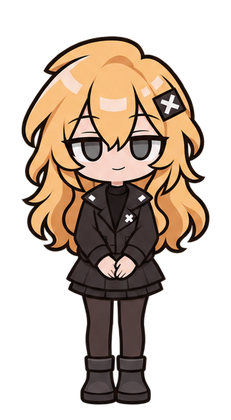
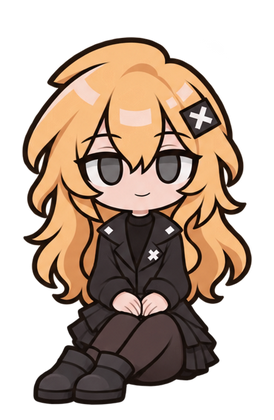
Seat Grok and add four five-frame idle gestures for every mascot

diff --git a/tests/AIUsageMonitor.Regression/CharacterSelectionTests.cs b/tests/AIUsageMonitor.Regression/CharacterSelectionTests.cs
@@ -172,6 +172,7 @@ internal static partial class Program
                 window.Stages.All(stage => Equals(pose.GetValue(stage), "resting")) &&
                 restingBodies.All(body => Math.Abs(body.Bottom - field.ActualHeight) < 0.5) &&
                 restingBodies[0].Height < bodies[0].Height - 10 && restingBodies[2].Height < bodies[2].Height - 10 &&
+                restingBodies[4].Height < bodies[4].Height - 10 &&
                 lefts.SequenceEqual(window.Stages.Select(Canvas)),
                 string.Join(", ", restingBodies.Select(body => $"{body.Height:F1}/{body.Bottom:F1}")));
             RenderFixture(window, "character-resting");
@@ -181,15 +182,15 @@ internal static partial class Program
             {
                 var stage = window.Stages[i];
                 shownFrames[i] = [];
-                for (int sample = 0; sample < 125; sample++)
+                for (int sample = 0; sample < 750; sample++)
                 {
                     frame.Invoke(stage, null);
                     shownFrames[i].Add((int)frameIndex.GetValue(stage)!);
                 }
             }
-            Check("each resting mascot has three drawn gesture frames and plays a brief gesture",
-                window.Stages.All(stage => Enumerable.Range(1, 3).All(index => CharacterTheme.HasStanding(stage.Character, true, index))) &&
-                shownFrames.All(frames => SystemParameters.ClientAreaAnimation ? frames.Contains(0) && frames.Any(index => index > 0) :
+            Check("all six mascots show every drawn frame of their four gestures while resting",
+                window.Stages.All(stage => Enumerable.Range(1, 8).All(index => CharacterTheme.HasStanding(stage.Character, true, index))) &&
+                shownFrames.All(frames => SystemParameters.ClientAreaAnimation ? frames.SetEquals(Enumerable.Range(0, 9)) :
                     frames.SetEquals([0])),
                 string.Join(" / ", shownFrames.Select(frames => string.Join(",", frames.Order()))));
             PrivateMethod<CharacterStage>("SlideBy").Invoke(window.Gpt, [22.0]);

diff --git a/UI/DesktopCharacterMotion.cs b/UI/DesktopCharacterMotion.cs
@@ -2,16 +2,20 @@ namespace AIUsageMonitor.UI;
 
 internal sealed class DesktopCharacterMotion(Random random)
 {
-    static readonly int[] BlinkFrames = [1, 2, 1, 0];
-    static readonly int[] NodFrames = [3, 3, 3, 0];
+    static readonly int[][] Gestures =
+    [
+        [0, 1, 2, 1, 0], // blink
+        [0, 3, 4, 3, 0], // nod
+        [0, 5, 6, 5, 0], // glance sideways
+        [0, 7, 8, 7, 0], // tilt head
+    ];
     readonly Random _random = random;
     readonly double _restDelay = 2.8 + random.NextDouble() * 2.8;
     readonly double _breathPeriod = 3.4 + random.NextDouble() * 2.5;
     readonly double _phase = random.NextDouble() * 2 * Math.PI;
     double _quietTime, _dragDistance, _lean, _settle;
     double _untilGesture = 3.8 + random.NextDouble() * 4;
-    int _gestureStep;
-    int[] _gesture = BlinkFrames;
+    int _gestureStep, _gestureIndex = random.Next(Gestures.Length);
     bool _dragging;
 
     public bool Resting { get; private set; }
@@ -59,10 +63,15 @@ internal sealed class DesktopCharacterMotion(Random random)
             _untilGesture -= seconds;
             if (_untilGesture > 0) return 0;
             _untilGesture = 4.5 + _random.NextDouble() * 7;
-            _gesture = _random.Next(4) == 0 ? NodFrames : BlinkFrames;
         }
-        int frame = _gesture[_gestureStep++];
-        if (_gestureStep == _gesture.Length) _gestureStep = 0;
+        var gesture = Gestures[_gestureIndex];
+        int ticksPerFrame = _gestureIndex == 0 ? 1 : 2;
+        int frame = gesture[_gestureStep++ / ticksPerFrame];
+        if (_gestureStep == gesture.Length * ticksPerFrame)
+        {
+            _gestureStep = 0;
+            _gestureIndex = (_gestureIndex + 1) % Gestures.Length;
+        }
         return frame;
     }
 }

diff --git a/UI/CharacterStage.cs b/UI/CharacterStage.cs
@@ -764,7 +764,8 @@ public sealed class CharacterStage : Border
         if (!_faceArt && _pose == "collapsed") k *= _character switch { "claude" => 1.25, "codex" => 1.2, _ => 1 };
         _img.Width = b.PixelWidth * k;
         _img.Height = b.PixelHeight * k;
-        Canvas.SetLeft(_img, _fullBodyArt ? _figure.Width / 2 - (_bodyBounds.Left + _bodyBounds.Width / 2) * _img.Width
+        var centerBounds = _pose == RestPose ? _visibleBounds[CacheKey(RestPose)] : _bodyBounds;
+        Canvas.SetLeft(_img, _fullBodyArt ? _figure.Width / 2 - (centerBounds.Left + centerBounds.Width / 2) * _img.Width
             : _figure.Width - 30 - _bodyBounds.Right * _img.Width);
         Canvas.SetTop(_img, _figure.Height - (_fullBodyArt ? 0 : 12) - _bodyBounds.Bottom * _img.Height);
     }

diff --git a/UI/StandingSprite.cs b/UI/StandingSprite.cs
@@ -32,7 +32,7 @@ internal static class StandingSprite
         ["claude"] = new(32, 218, 65, 132),
         ["gpt"] = new(32, 210, 59, 165),
         ["gemini"] = new(85, 226, 51, 150),
-        ["grok"] = new(32, 181, 48, 219),
+        ["grok"] = new(32, 209, 58, 148),
         ["deepseek"] = new(82, 228, 60, 139),
     };
 

diff --git a/art/standing-prompt-set.md b/art/standing-prompt-set.md
@@ -49,5 +49,13 @@ Use case: identity-preserve. Deliver ONE 2 by 2 animation sprite sheet of exactl
 | `claude.png` | Keep EXACTLY the relaxed side-saddle sitting pose in the supplied reference, both knees and boots together off to one side, one hand braced lightly and one hand on lap. Keep the soft brown curls, brown outfit, black bow with star and round glasses on every frame, including over the closed eyes. |
 | `gpt.png` | Keep EXACTLY the shallow squat in the supplied reference with both cyan sneakers planted, elbows lightly upon the knees, and the cyan-and-white hoodie. Keep the white asymmetrical fringe, cyan triangle clip, cyan eyes, and friendly small smile. |
 | `gemini.png` | CHANGE to a gentle, sweet kneeling sit on the floor, folded knees together, shoes peeking out on the sides, both hands resting softly together in her lap, shoulders relaxed, mild closed smile. Head mostly upright. No upright knee, no elbow braced on a knee, no leaning back. Keep the original blonde pigtails, blue eyes, teal bows, pink-and-purple tips, star hairpins and gold-trimmed navy dress. |
-| `grok.png` | CHANGE to a friendly, relaxed standing pose with both boots planted near each other and pointing mostly forward, soft shoulders, and hands loosely clasped just below the jacket front. A faint friendly smile. No hand in pocket, no slouch, no hips thrust sideways. Keep black jacket, skirt, tights and boots, long blonde hair, matte gray eyes, and black hair clip with the diagonal white X. |
+| `grok.png` | Grok in a gentle seated pose. Sit on the floor with BOTH folded knees low, knees together, calves tucked gently toward one side, both black boots fully visible resting on the floor, hands relaxed together across the knees. Same friendly small smile, neither slouch nor strict attention. Absolutely seated at floor level in ALL four frames. Preserve long golden-blonde hair, two gray irises, inverted eye fringes, diagonal white X on black clip, all-black jacket with the little embroidered white X, dark skirt, charcoal tights, and black boots. Across frames all body and footwear positions stay the same. Upper left eyes open, upper right half blink, lower left shut, lower right eyes open with a tiny head nod. One 2×2 sheet; true transparent alpha. |
 | `deepseek.png` | CHANGE to a calm seated pose with both knees together and the lower legs tucked gently to one side, both hands resting together on her lap, head upright and relaxed, small polite smile. No raised knee, no leaning the head on a hand. Keep navy-and-white outfit, navy hair and swept tuft, blue eyes, two rectangle clips, hair accessories and full shoes. |
+
+## Additional idle animation frames
+
+Built-in ImageGen generated another sheet for each final resting PNG. Cells 2–6 are saved as frames 4–8 in `Assets/Standing/Rest/Frames/`. The lower body and floor contact are the alignment references. Each gesture plays five frames, including the neutral start and return.
+
+```text
+Use case: identity-preserve. Produce ONE precise animation sprite sheet with 3 COLUMNS × 2 ROWS, exactly SIX full-body sprites of the exact single ChatterBox character in the provided resting PNG. The input image is the exact identity, color and full-body pose reference to edit. Landscape 3:2 canvas or close, six equal-sized rectangular cells, clear transparent gutters at every cell boundary, and blank alpha outside sprites. Keep the reference's hands, arms, shoulders, legs, shoes, clothes, body and floor point frozen in every cell. Draw the same full character in each cell, full hair and shoes inside the cell, same baseline, same figure scale and X position, no outlines around cells, no labels, no background, no shadows. The 6 animation cells in READING ORDER: (1) exact neutral duplicate of the input art, matching its pose and open eyes, (2) tiny downward nod, chin and head move down by only about 4% of the head height with eyes looking slightly down, (3) the pupils peek just slightly toward viewer's right while head stays EXACTLY still, (4) the pupils look a little farther toward viewer's right, keeping the head STILL, (5) tiny curious three-degree tilt of only the head clockwise, (6) curious six-degree tilt of only the head clockwise. The last two head tilts can be recognized by a subtly tilted eye line, fringe and hair. Closed smile in all cells. The illustrated body below the neck must look the same in every cell; preserve the supplied gestures such as folded knees, crossed legs, or squatting completely. Match original crisp linework, flat iris colors, SD chibi design, distinctive accessories, true transparent background. Complete sprites, no writing.
+```
